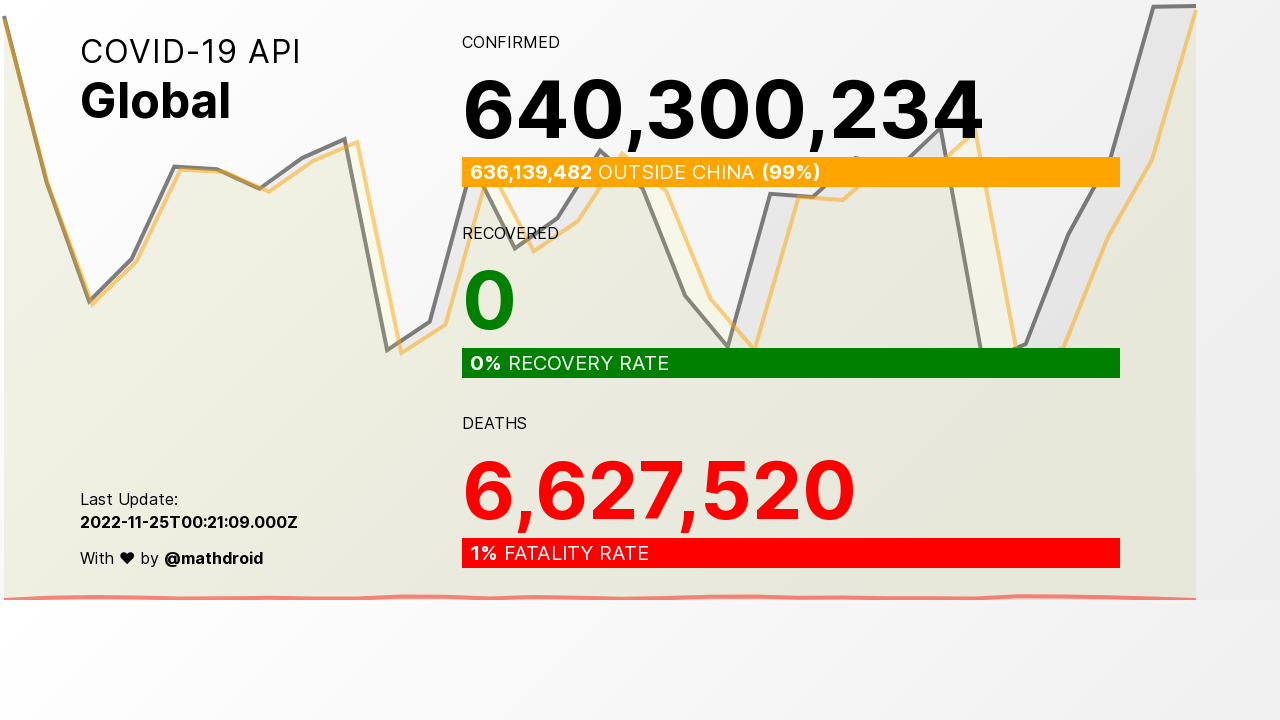
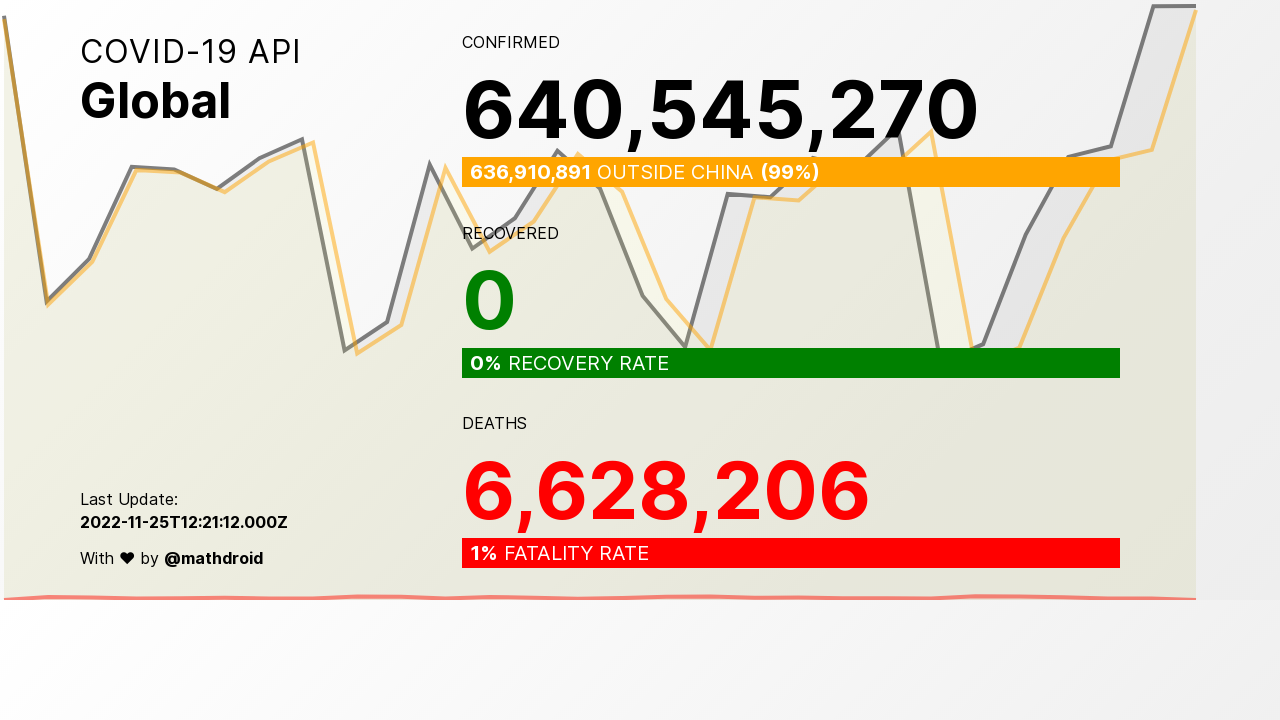
Add changes

diff --git a/README.md b/README.md
@@ -1,6 +1,6 @@
 # store covid daily api as json data
 
-- last cronjob : Friday, 25 November 2022 01:09:10
+- last cronjob : Friday, 25 November 2022 13:24:12
 - status og cron : success
 - status daily cron : success
       
